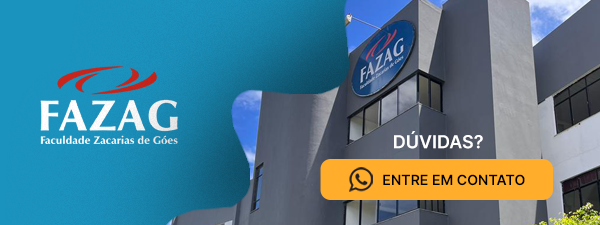
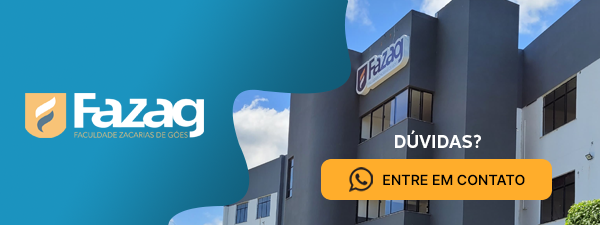
alterações no link do botão de baixar matriz no nodemailer e nos links de imagem, alterados pro domínio do site da fazag

diff --git a/pages/api/leads/leadsmail.ts b/pages/api/leads/leadsmail.ts
@@ -37,7 +37,7 @@ if(req.method === 'POST'){
            margin-top: 1rem;
            margin-bottom: 1rem;">
            <a href="/">
-                <img src="https://lh3.googleusercontent.com/u/1/drive-viewer/AK7aPaDJO8VwabIeD60vIG-qznmjsVbUtvaXDZ5hhyKis-h_SAvDSYbszSxK4x6WR74raAwKMLXSjVOjLgbsdwZBEiplbRaQqA=w3028-h1708" style="border-radius: 16px;" alt="Logo da Fazag" width=600px />
+                <img src="https://www.fazag.edu.br/images/bannermail.png" style="border-radius: 16px;" alt="Logo da Fazag" width=600px />
            </a>
                
            
@@ -55,7 +55,7 @@ if(req.method === 'POST'){
                height: 50px;
                text-align: center;
                ">
-                    <a href="https://fazag.edu.br/static/matrizes/${courseLowerCase}.pdf" style="
+                    <a href="https://fazag.edu.br/static/matrizes/${data.courseId}.pdf" style="
                         cursor: pointer;
                         text-decoration: none;
                         text-align: center;
